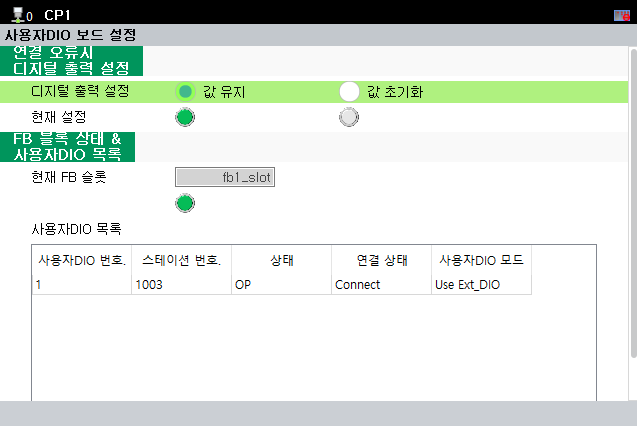
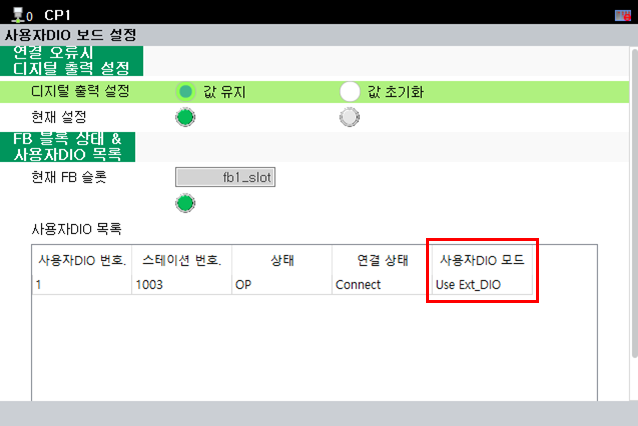
그림 수정 및 내용 수정

diff --git a/2-Configuration/2-EtherCAT-Configuration.md b/2-Configuration/2-EtherCAT-Configuration.md
@@ -4,27 +4,22 @@ EtherCAT 설정은 다음과 같이 진행합니다.
 
 제어기를 **OFF** 한 상태에서 LAN 케이블을 올바르게 연결해야 합니다.
 
-<mark style="color:green;">**- BD681 1개 구성 (BD681 또는 BD681 + BD682)**</mark>
+<mark style="color:green;">**- BD681 1개 구성 ( BD681 + BD682 )**</mark>
 
 ![](../_assets/05.BD681_1개_케이블_연결.png)<br>
-그림 4 BD681 1개 케이블 연결
+<그림 1. BD681 1개 케이블 연결>
 
-위의 그림과 같이 BD642의 아래쪽 랜커넥터와 BD681 위쪽 랜커넥터를 연결한 후 제어기 전원을 **ON** 합니다. 정상적으로 EtherCAT이 연결되면 아래와 같이 TP에서 확인 가능합니다.
-
-**- 메뉴 위치: [시스템] - [안전 시스템 진단] - [EtherCAT 네트워크 모니터링]**
-
-![](../_assets/06.BD681_1개_EtherCAT_네트워크_모니터링.png)<br>
-그림 5 BD681 1개 EtherCAT 네트워크 모니터링<br><br>
+위의 그림과 같이 BD642의 아래쪽 랜커넥터와 BD681 위쪽 랜커넥터를 연결한 후 제어기 전원을 **ON** 합니다. 정상적으로 EtherCAT이 연결되면 아래와 같이 TP에서 '사용자DIO 목록'으로 확인 가능합니다.
 
 **- 메뉴 위치: [시스템] - [옵션 장치] - [사용자 DIO 보드 설정]**
 
 ![](../_assets/07.BD681_1개_사용자DIO_보드_설정.png)<br>
-그림 6 BD681 1개 사용자DIO 보드 설정<br>
+<그림 2. BD681 1개 사용자DIO 보드 설정><br>
 
 ![](../_assets/08.BD681_상태표시_LED.png)<br>
-그림 7 BD681 상태표시 LED<br>
+<그림 3. BD681 상태표시 LED><br>
 
-BD681 보드의 상태표시 LED는 정상적으로 연결이 완료 될 경우, 다음과 같은 순서로 동작합니다.  
+BD681 보드의 상태표시 LED는 정상적으로 연결이 완료 될 경우, 아래와 같이 동작합니다.  
 
 - BD681 보드 상태표시 LED 동작
 1. 2초 점등 (EtherCAT 연결 대기중)
@@ -32,10 +27,10 @@ BD681 보드의 상태표시 LED는 정상적으로 연결이 완료 될 경우,
 3. 0.75초 점등 (EtherCAT 연결 Ok, 초기 설정 Ok)
 <br><br>
 
-<mark style="color:green;">**- BD681 2개 구성 (BD681 + BD682 + BD681)**</mark>
+<mark style="color:green;">**- BD681 2개 구성 ( #1_BD681 + BD682 + #2_BD681 )**</mark>
 
 ![](../_assets/09.BD681_2개_케이블_연결.png)<br>
-그림 8 BD681 2개 케이블 연결
+<그림 4. BD681 2개 케이블 연결>
 
 위의 그림과 같이 #1 BD681 자리 옆에 #2 BD681을 꽂아 넣습니다.
 
@@ -47,10 +42,9 @@ BD681 보드의 상태표시 LED는 정상적으로 연결이 완료 될 경우,
 
 BD642의 아래쪽 랜커넥터와 #1 BD681 위쪽 랜커넥터를 연결한 후, #1 BD681 아래쪽 랜커넥터와 #2 BD681 위쪽 랜커넥터를 연결합니다. 그리고 제어기 전원을 **ON** 합니다. 정상적으로 EtherCAT이 연결되면 아래와 같이 TP에서 확인 가능합니다.
 
-![](../_assets/10.BD681_2개_EtherCAT_네트워크_모니터링.png)<br>
-그림 9 BD681 2개 EtherCAT 네트워크 모니터링<br><br>
-
 ![](../_assets/11.BD681_2개_사용자DIO_보드_설정.png)<br>
-그림 10 BD681 2개 사용자DIO 보드 설정<br>
+<그림 5. BD681 2개 사용자DIO 보드 설정><br>
 
 BD681 보드의 상태표시 LED는 정상적으로 연결 될 경우, 'BD681 1개 구성'의 'BD681 보드 상태표시 LED 동작' 과 동일하게 동작합니다.
+
+

diff --git a/2-Configuration/5-Sensor-Sync-Configuration.md b/2-Configuration/5-Sensor-Sync-Configuration.md
@@ -9,13 +9,13 @@ BD682의 컨베이어 엔코더 인터페이스 사용할 경우 "센서 동기"
 **- 메뉴 위치: [시스템] - [4: 응용 파라미터] - [4: 센서 동기]**
 
 ![](../_assets/18.센서동기_설정_UI.png)<br>
-그림 16 센서 동기 설정 UI<br><br>
+<그림 1. 센서 동기 설정 UI><br><br>
 
 '파라미터 설정'의 '동기 상태' 항목을 '컨베이어'로 설정하고 '입력 신호 할당', '출력 신호 할당'을 정상적으로 설정해야 컨베이어 엔코더 인터페이스를 사용할 수 있습니다.
 
 
 ![](../_assets/19.동기_상태_컨베이어_설정.png)<br>
-그림 17 동기 상태를 컨베이어로 설정<br>
+<그림 2. 동기 상태를 컨베이어로 설정><br>
 
 '파라미터 설정'에 대한 세부 정보는 "[로봇제어기 기능설명서 - 센서 동기 (센서 동기 파라미터)](https://hrbook-hrc.web.app/#/view/doc-sensor-sync/korean/3-user-interface/3-3-sensor-sync-parameter)"를 참고하시기 바랍니다.
 
@@ -25,15 +25,15 @@ BD682의 컨베이어 엔코더 인터페이스는 시스템 입출력에 연동
 아래 그림과 같이 UI 밑에 위치한 **[BD640T BD68X] 버튼**을 누르면 지정된 입출력 번호를 입력해 줍니다. 그리고 최종적으로 **[v확인] 버튼**을 누르면 설정을 적용할 수 있습니다.
 
 ![](../_assets/20.채널1_시스템_입출력_설정.png)<br>
-그림 18 채널1 시스템 입출력 설정<br><br>
+<그림 3. 채널1 시스템 입출력 설정><br><br>
 
 ![](../_assets/21.채널2_시스템_입출력_설정.png)<br>
-그림 19 채널2 시스템 입출력 설정<br><br>
+<그림 4. 채널2 시스템 입출력 설정><br><br>
 
 추가적으로 펄스 카운터 타입, 펄스 통신 방식(엔코더 종류)을 선택할 수 있습니다. 아래의 표 내용을 참고하시기 바랍니다.
 <br>
 
-**표 3 펄스 카운터 타입, 펄스 통신 방식(엔코더 종류) 정보**
+<표 1. 펄스 카운터 타입, 펄스 통신 방식(엔코더 종류) 정보>
 
 <table>
 <thead>
@@ -105,6 +105,6 @@ BD682의 컨베이어 엔코더 인터페이스는 시스템 입출력에 연동
 적용을 위해서는 반드시 **[v확인] 버튼**을 눌러야 합니다.
 
 ![](../_assets/22.출력신호할당_ON.png)<br>
-그림 20 펄스 카운터 타입 ON 적용<br>
+<그림 5. 펄스 카운터 타입 ON 적용><br>
 
 세부적인 내용은 "[로봇제어기 기능설명서 - 센서 동기](https://hrbook-hrc.web.app/#/view/doc-sensor-sync/korean/README)"의 컨베이어 관련 부분을 참고하시기 바랍니다.

diff --git a/2-Configuration/3-FB-Block-Configuration.md b/2-Configuration/3-FB-Block-Configuration.md
@@ -5,22 +5,22 @@ FB 블럭 설정은 다음 메뉴에서 진행할 수 있습니다.
 **- 메뉴 위치: [시스템] - [2:제어 파라미터] - [2:입출력 신호 설정] - [6:fb블럭 할당]**
 
 ![](../_assets/12.FB블럭할당.png)<br>
-그림 11 FB 블럭 할당 메뉴<br><br>
+<그림 1. FB 블럭 할당 메뉴><br><br>
 
 할당하고 싶은 fb 블럭을 선택하여 '사용자 DIO'로 설정을 진행하면 됩니다.
 
 ![](../_assets/13.fb1_사용자DIO할당.png)<br>
-그림 12 fb1에 사용자DIO 할당 예시<br><br>
+<그림 2. fb1에 사용자DIO 할당 예시><br><br>
 
 자세한 사항은 "[로봇제어기 조작설명서 - (FB 블록 할당)](https://hrbook-hrc.web.app/#/view/doc-hi6-operation/korean-tp630/7-system/3-control-parameter/2-io-signal-setting/9-dio-block-assign)" 을 참고하시기 바랍니다.
 
 사용자 DIO에 대한 FB블럭이 할당 되었는지는 [6:fb블럭 할당] 및 [사용자DIO 보드 설정] 메뉴에서 확인 가능합니다.
 
 ![](../_assets/14.사용자DIO_FB_미할당.png)<br>
-그림 13 사용자DIO FB블록 미할당<br><br>
+<그림 3. 사용자DIO FB블록 미할당><br><br>
 
 ![](../_assets/15.사용자DIO_FB3_할당.png)<br>
-그림 13 사용자DIO fb3 할당<br>
+<그림 4. 사용자DIO fb3 할당><br>
 
 {% hint style="warning" %}
 사용자DIO를 여러 FB블럭에 할당하여도 <strong>가장 번호가 낮은 FB블럭에서 사용 가능하며, 나머지 할당된 FB블럭은 제어가 무시</strong> 됩니다.
@@ -29,4 +29,4 @@ FB 블럭 설정은 다음 메뉴에서 진행할 수 있습니다.
 아래 그림과 같이 FB블럭이 할당 되었을 경우, fb2에서 사용자 DIO 제어가 가능하며, fb5에 입력된 값은 무시됩니다.
 
 ![](../_assets/16.사용자DIO_FB_다중할당.png)<br>
-그림 14 사용자DIO fb 다중 할당 예시<br>
+<그림 5. 사용자DIO fb 다중 할당 예시><br>

diff --git a/2-Configuration/1-Board-Switch-Configuration.md b/2-Configuration/1-Board-Switch-Configuration.md
@@ -3,7 +3,7 @@
 보드 스위치 위치는 아래 사진과 같습니다.<br>
 
 ![](../_assets/01.사용자DIO_보드_스위치_위치.png)<br>
-그림 1 사용자DIO 보드 스위치 위치
+<그림 1. 사용자DIO 보드 스위치 위치>
 <br>
 
 {% hint style="warning" %}
@@ -21,12 +21,14 @@
 [사용자DIO 보드 설정]에서 정상적으로 확인하려면, BD681의 EtherCAT 연결이 정상적으로 되어야 합니다.
 {% endhint %}
 
+EtherCAT 연결에 대한 세부 내용은 "[2.2. EtherCAT 설정](./2-EtherCAT-Configuration.md)" 매뉴얼을 참고하시기 바랍니다.
+
 ![](../_assets/02.사용자DIO_보드_설정_TP.png)<br>
-그림 2 사용자DIO 보드 설정 TP UI<br>
+<그림 2. 사용자DIO 보드 설정 TP UI><br>
 
 <br>
 
-**표 2 사용자DIO 모드 항목**
+<표 1. 사용자DIO 모드 항목>
 
 <table>
 <thead>
@@ -69,4 +71,12 @@
 <br><br>
 
 ![](../_assets/03.사용자DIO_보드_스위치_ON_OFF.png)<br>
-그림 3 사용자DIO 보드 스위치 ON/OFF
+<그림 3. 사용자DIO 보드 스위치 ON/OFF>
+
+사용자 DIO 보드를 2개 사용할 때, 2번째 사용자 DIO 보드 스위치가 OFF 되어있으면 <strong>"E55005 2번째 사용자 DIO 보드 스위치 설정 오류 감지"</strong> 에러를 출력합니다.
+해당 에러를 해결하기 위해서는 2번째 사용자 DIO 보드 스위치를 ON으로 변경하여야 합니다.
+
+{% hint style="warning" %}
+"E55005 2번째 사용자 DIO 보드 스위치 설정 오류 감지" 에러가 발생하였을 경우, 사용자 DIO 보드와 확장 DIO 보드를 정상적으로 사용할 수 없습니다. 보드의 스위치 설정을 올바르게 변경한 후에 사용해야 합니다.
+{% endhint %}
+

diff --git a/2-Configuration/4-Internal-PLC-Configuration.md b/2-Configuration/4-Internal-PLC-Configuration.md
@@ -11,6 +11,6 @@ FB블럭을 사용하여 정상적으로 사용자 DIO를 연동하기 위해서
 내장 PLC에서 불러오는 래더 로직(Ladder Logic)이 FB블럭 입출력에 영향을 주게 되므로 주의가 필요합니다.
 
 ![](../_assets/17.래더로직_FB_입출력_연결.png)<br>
-그림 15 래더 로직의 fb1 논리적/물리적 입출력 연결 예시<br>
+<그림 1. 래더 로직의 fb1 논리적/물리적 입출력 연결 예시><br>
 
 내장 PLC에 대한 자세한 사항은 "[로봇제어기 기능설명서 - 내장 PLC](https://hrbook-hrc.web.app/#/view/doc-hi6-embedded-plc/korean/README)" 를 참고하시기 바랍니다.

diff --git a/1-overview.md b/1-overview.md
@@ -10,7 +10,7 @@ Hi6a 제어기에서 '사용자 DIO 보드(BD681)'와 '확장 DIO 보드(BD682)'
 
 <br>
 
-**표 1 보드 사양**
+<표 1. 보드 사양>
 
 <table>
 <thead>
